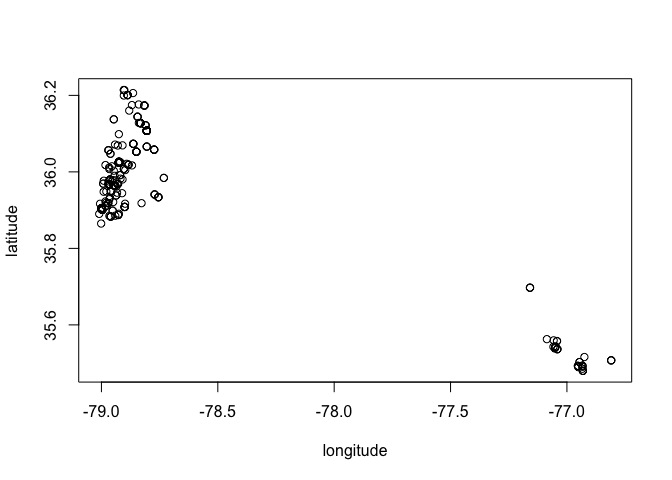
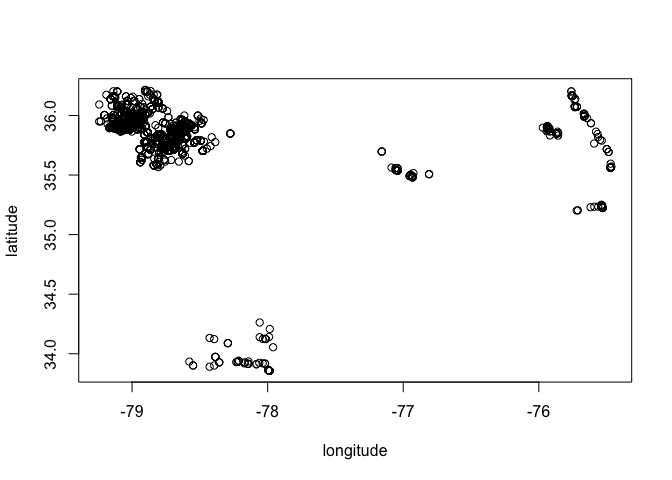
Added some counties to the demo

diff --git a/README.md b/README.md
@@ -1,7 +1,7 @@
 eBird Abundance Data
 ================
 Peter Hoff
-01 August, 2020
+04 August, 2020
 
 ### Summary
 
@@ -57,11 +57,11 @@ objects()
 
     ## [1] "eBirdGetData"   "eBirdGetURL"    "eBirdMergeData" "eBirdNames"
 
-Download and merge one week of data from two NC counties (Durham and
-Beaufort):
+Download and merge one week of data from some NC counties:
 
 ``` r
-counties<-c("US-NC-063","US-NC-013")
+# Durham, Brunswick, Beaufort, Dare, Wake and Orange counties
+counties<-c("US-NC-063","US-NC-019","US-NC-013","US-NC-055","US-NC-183","US-NC-135") 
 dates<-as.Date(0:6,origin = "2020-05-01")
 
 eBdat<-NULL
@@ -79,13 +79,41 @@ for(i in seq_along(counties)){
     ## US-NC-063 18387 
     ## US-NC-063 18388 
     ## US-NC-063 18389 
+    ## US-NC-019 18383 
+    ## US-NC-019 18384 
+    ## US-NC-019 18385 
+    ## US-NC-019 18386 
+    ## US-NC-019 18387 
+    ## US-NC-019 18388 
+    ## US-NC-019 18389 
     ## US-NC-013 18383 
     ## US-NC-013 18384 
     ## US-NC-013 18385 
     ## US-NC-013 18386 
     ## US-NC-013 18387 
     ## US-NC-013 18388 
-    ## US-NC-013 18389
+    ## US-NC-013 18389 
+    ## US-NC-055 18383 
+    ## US-NC-055 18384 
+    ## US-NC-055 18385 
+    ## US-NC-055 18386 
+    ## US-NC-055 18387 
+    ## US-NC-055 18388 
+    ## US-NC-055 18389 
+    ## US-NC-183 18383 
+    ## US-NC-183 18384 
+    ## US-NC-183 18385 
+    ## US-NC-183 18386 
+    ## US-NC-183 18387 
+    ## US-NC-183 18388 
+    ## US-NC-183 18389 
+    ## US-NC-135 18383 
+    ## US-NC-135 18384 
+    ## US-NC-135 18385 
+    ## US-NC-135 18386 
+    ## US-NC-135 18387 
+    ## US-NC-135 18388 
+    ## US-NC-135 18389
 
 Examine metaData a bit:
 
@@ -110,14 +138,14 @@ Examine obsData a bit:
 eBdat$obsData[1:3,1:6] 
 ```
 
-    ##           Acadian Flycatcher American Bittern American Coot American Crow
-    ## S68271265                  0                0             0             0
-    ## S68215893                  0                0             0             1
-    ## S68209974                  0                0             0             1
-    ##           American Goldfinch American Kestrel
-    ## S68271265                  0                0
-    ## S68215893                  1                0
-    ## S68209974                  0                0
+    ##           Acadian Flycatcher Accipiter sp. American Bittern American Black Duck
+    ## S68271265                  0             0                0                   0
+    ## S68215893                  0             0                0                   0
+    ## S68209974                  0             0                0                   0
+    ##           American Coot American Crow
+    ## S68271265             0             0
+    ## S68215893             0             7
+    ## S68209974             0             1
 
 ``` r
 ## Obtain counts per hour of effort 
@@ -127,37 +155,37 @@ obsPH<-sweep(eBdat$obsData,1,eBdat$metaData$duration,"/")
 sort(apply(obsPH[eBdat$metaData$loc3==counties[1],],2,mean),decreasing=TRUE)[1:20]  
 ```
 
-    ##      Northern Cardinal          Carolina Wren  Blue-gray Gnatcatcher 
-    ##              4.5389025              2.5163281              1.9679265 
-    ##        Tufted Titmouse           Canada Goose     Carolina Chickadee 
-    ##              1.6685351              1.6183317              1.5482120 
-    ##         American Robin       Great Blue Heron          Cedar Waxwing 
-    ##              1.4991179              1.4985549              1.4363564 
-    ##          House Sparrow         Red-eyed Vireo         Common Grackle 
-    ##              1.2909832              1.2822578              1.2762000 
-    ##           Gray Catbird         Indigo Bunting       Eastern Bluebird 
-    ##              1.2167326              1.1752927              1.1272574 
-    ##          Mourning Dove         Eastern Towhee Red-bellied Woodpecker 
-    ##              1.0101769              0.9957333              0.9868141 
-    ##            House Finch     American Goldfinch 
-    ##              0.9864079              0.9840758
+    ##      Northern Cardinal     Carolina Chickadee       Downy Woodpecker 
+    ##               3.029230               2.244862               2.199182 
+    ##               Blue Jay  Blue-gray Gnatcatcher          Carolina Wren 
+    ##               2.159292               2.092961               2.000572 
+    ##              Fish Crow           Canada Goose          American Crow 
+    ##               1.910612               1.586330               1.566858 
+    ##          House Sparrow     American Goldfinch             Barred Owl 
+    ##               1.536071               1.514350               1.461825 
+    ##         Eastern Towhee        Tufted Titmouse Red-bellied Woodpecker 
+    ##               1.448340               1.368253               1.315154 
+    ##  Brown-headed Nuthatch         American Robin       Great Blue Heron 
+    ##               1.311144               1.291383               1.267440 
+    ##         Summer Tanager   Brown-headed Cowbird 
+    ##               1.209919               1.144337
 
 ``` r
 ## Top 20 birds in Beaufort 
 sort(apply(obsPH[eBdat$metaData$loc3==counties[2],],2,mean),decreasing=TRUE)[1:20]  
 ```
 
-    ##             Canada Goose        European Starling            Laughing Gull 
-    ##                10.080908                 5.913111                 5.299309 
-    ##        Northern Cardinal           Common Grackle                 gull sp. 
-    ##                 4.790157                 4.569693                 3.901678 
-    ##            Purple Martin                  Mallard Great Crested Flycatcher 
-    ##                 3.341003                 3.215959                 2.683719 
-    ##       Carolina Chickadee            Mourning Dove            Carolina Wren 
-    ##                 2.428280                 2.303843                 2.299002 
-    ##           American Robin            Chimney Swift            Cedar Waxwing 
-    ##                 1.931231                 1.886298                 1.824725 
-    ##             Barn Swallow          Tufted Titmouse     Red-winged Blackbird 
-    ##                 1.765430                 1.631140                 1.422485 
-    ##                 Blue Jay Double-crested Cormorant 
-    ##                 1.421758                 1.321752
+    ##                 Killdeer        Northern Cardinal                 Blue Jay 
+    ##                6.0839776                4.8791295                4.6240859 
+    ##            Carolina Wren    Brown-headed Nuthatch     Northern Mockingbird 
+    ##                4.6035148                4.0350263                3.4285391 
+    ##       Carolina Chickadee              Great Egret            American Crow 
+    ##                3.1477513                2.2005186                2.0771078 
+    ##         Eastern Bluebird           Brown Thrasher            Mourning Dove 
+    ##                1.9509811                1.7476243                1.3497883 
+    ##              House Finch Great Crested Flycatcher     Brown-headed Cowbird 
+    ##                1.3321502                1.2858990                1.2228459 
+    ##            Black Vulture          Painted Bunting              Green Heron 
+    ##                1.1580193                1.0708233                0.8638049 
+    ##         Downy Woodpecker    Blue-gray Gnatcatcher 
+    ##                0.8423402                0.7538042
